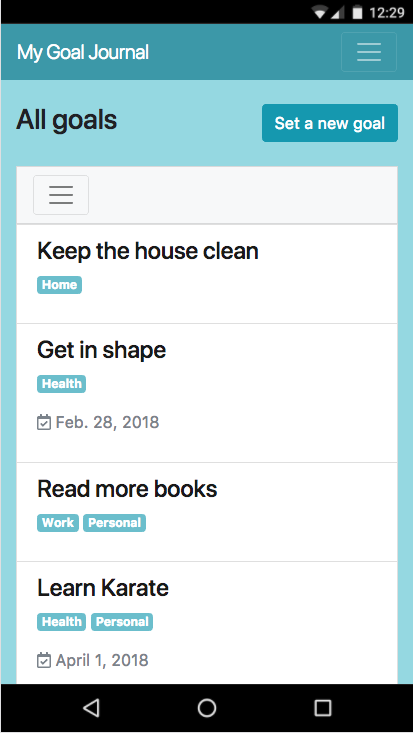
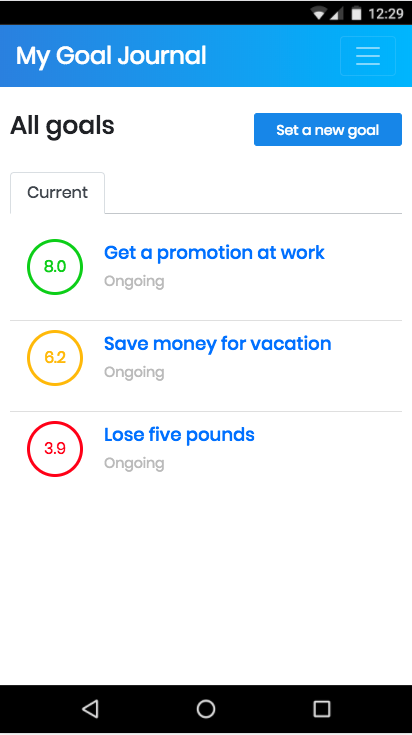
Update README for current version with demo account

diff --git a/README.rst b/README.rst
@@ -35,27 +35,34 @@ Installation
 
     $ createdb goal_journal
 
-5) Run Django migrations and run the local development server::
+5) Run Django migrations, load data for demo version and run the local development server::
 
     $ python manage.py migrate
+    $ python manage.py loaddata users goals journal
     $ python manage.py runserver
-
+    
 6) Point your browser to `http://127.0.0.1:8000/` to get started
 
 Usage
 -----
 
+Log in to the demo account to view the full set of features. From the home page, click on 'Sign In' on the main nav menu
+and enter these credentials:
+
+Username: demo_user
+Password: demo_password
+
 Set goals for yourself
 
-.. image:: docs/images/new_goal.png
+.. image:: docs/images/goal_list.png
 
 Take action to achieve your goals
 
 .. image:: docs/images/goal_detail.png
 
-Keep a goal journal
+Track your progress with goal scores, charts and journal
 
-.. image:: docs/images/journal_entry.png
+.. image:: docs/images/progress_chart.png
 
 Works great on mobile
 
